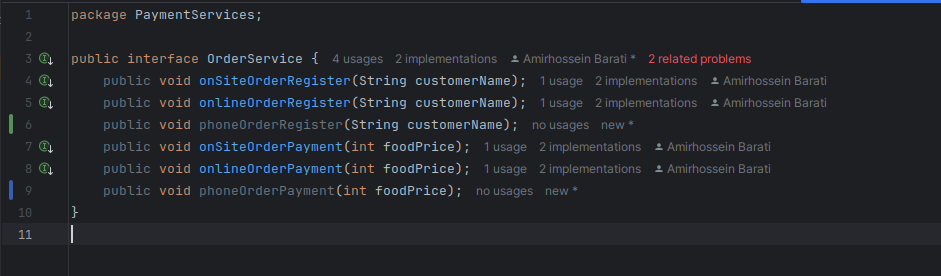
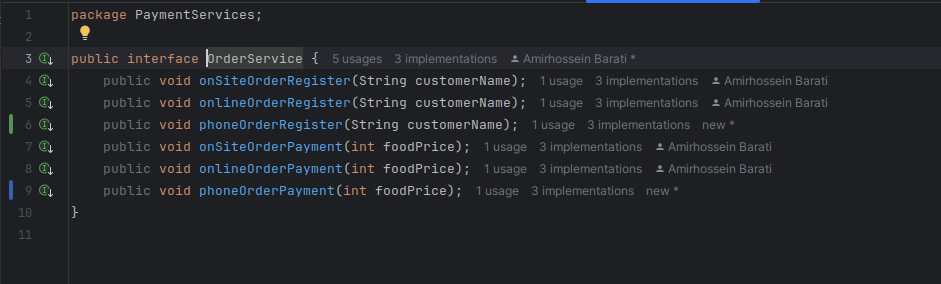
Update README.md

diff --git a/README.md b/README.md
@@ -14,6 +14,23 @@
 
 ### پیادهسازی کلاس PhoneOrderSerivce
 
-حال با توجه به این تغییرات، کلاس `PhoneOrderService` را به شکل زیر پیاده میکنیم. مشاهده میکنیم که علاوهبر تابعهایی که اکنون اضافه کردیم، میبایست سایر تابعهایی که از قبل برای دیگر روشها در سیستم موجود بودند را هم در کلاس  خود پیاده کنیم.
+حال با توجه به این تغییرات، کلاس `PhoneOrderService` را به شکل زیر پیاده میکنیم. مشاهده میکنیم که علاوهبر تابعهایی که اکنون اضافه کردیم، میبایست سایر تابعهایی که از قبل برای دیگر روشها در سیستم موجود بودند را هم در کلاس  خود پیاده کنیم:
 
 ![پیادهسازی کلاس PhoneOrderSerivce](./resources/1-2.png)
+
+### اضافه کردن تابعهای جدید به کلاسهای OnSiteOrderService و OnlineOrderService
+
+با توجه به اینکه کلاسهای `OnSiteOrderService` و `OnlineOrderService` از رابط `OrderService` ارثبری میکنند، بایست تمامی توابع تعریف شده در این رابط را پیادهسازی کنند. بنابراین باید پیادهسازی دو تابع `phoneOrderRegister` و `phoneOrderPayment` را به این کلاسها اضافه کنیم:
+
+![اضافه کردن توابع به کلاس OnSiteOrderService](./resources/1-3.png)
+![اضافه کردن توابع به کلاس OnlineOrderService](./resources/1-4.png)
+
+### تغییر کلاس Main برای اضافه کردن سرویس جدید
+
+حال نوبت به این میرسد که سرویس جدید را در روند برنامه اضافه کنیم. برای اینکار تغییرات زیر را در تابع `main` اضافه میکنیم:
+
+![](./resources/1-5.png)
+
+اکنون میتوانیم در منوی انتخاب روش پرداخت، با انتخاب عدد سه، پرداخت را به صورت تلفنی انجام دهیم. 
+
+## بخش دوم: تحلیل و بررسی برنامه از منظر SOLID
